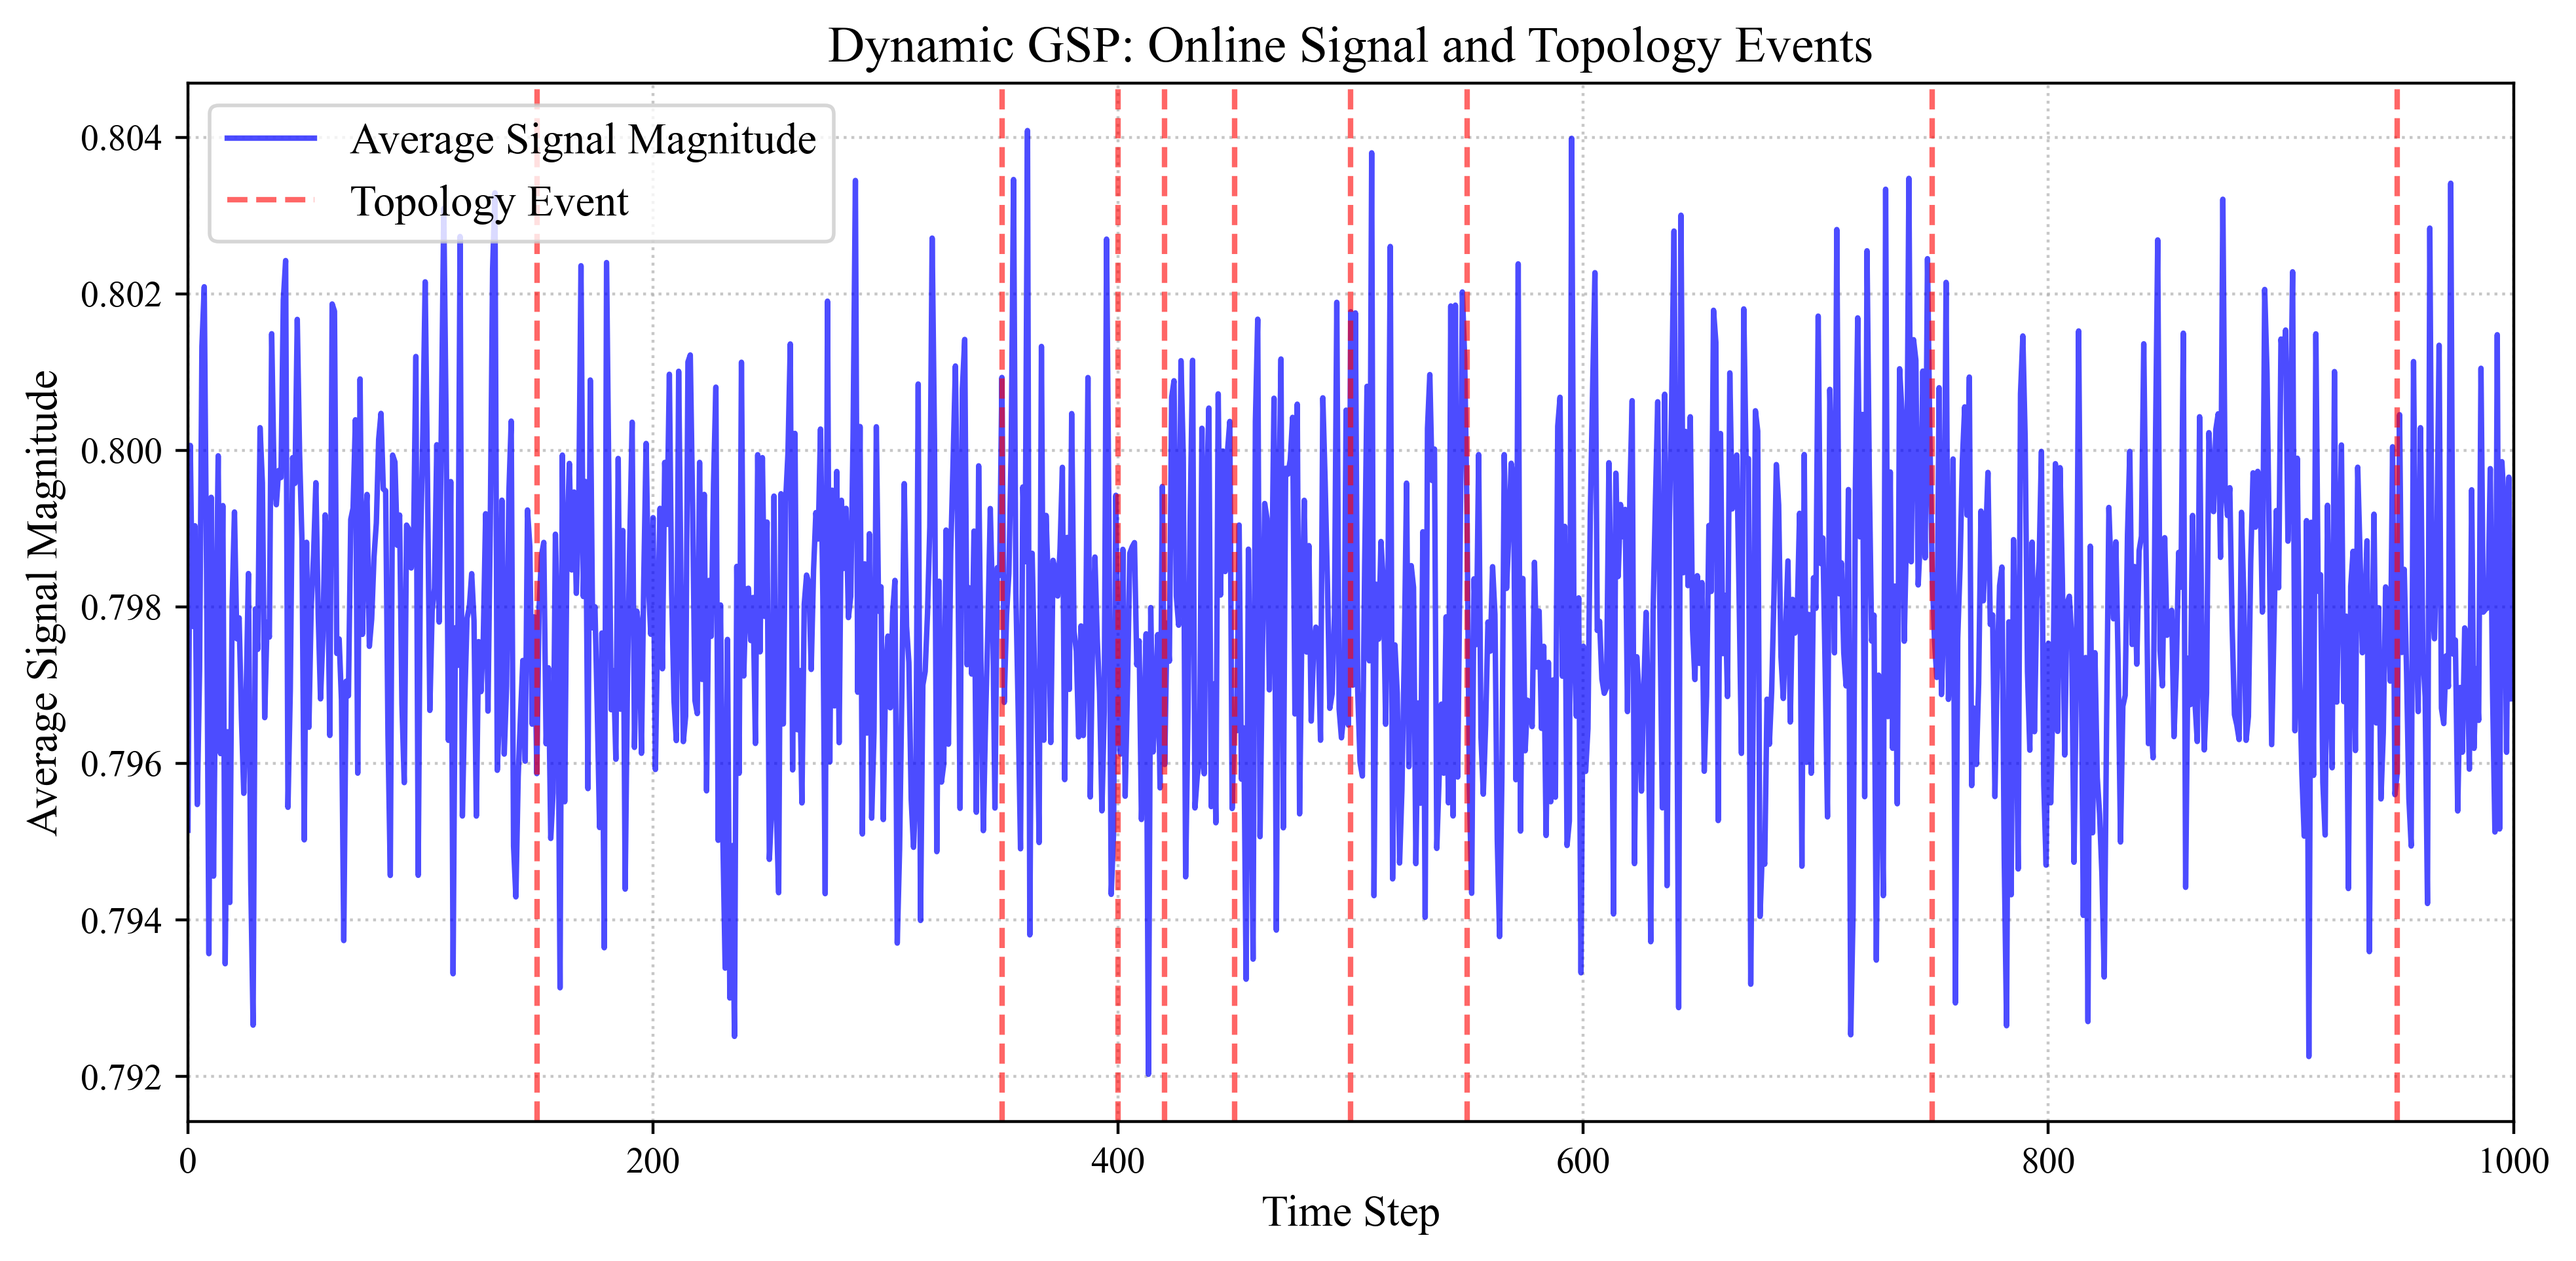
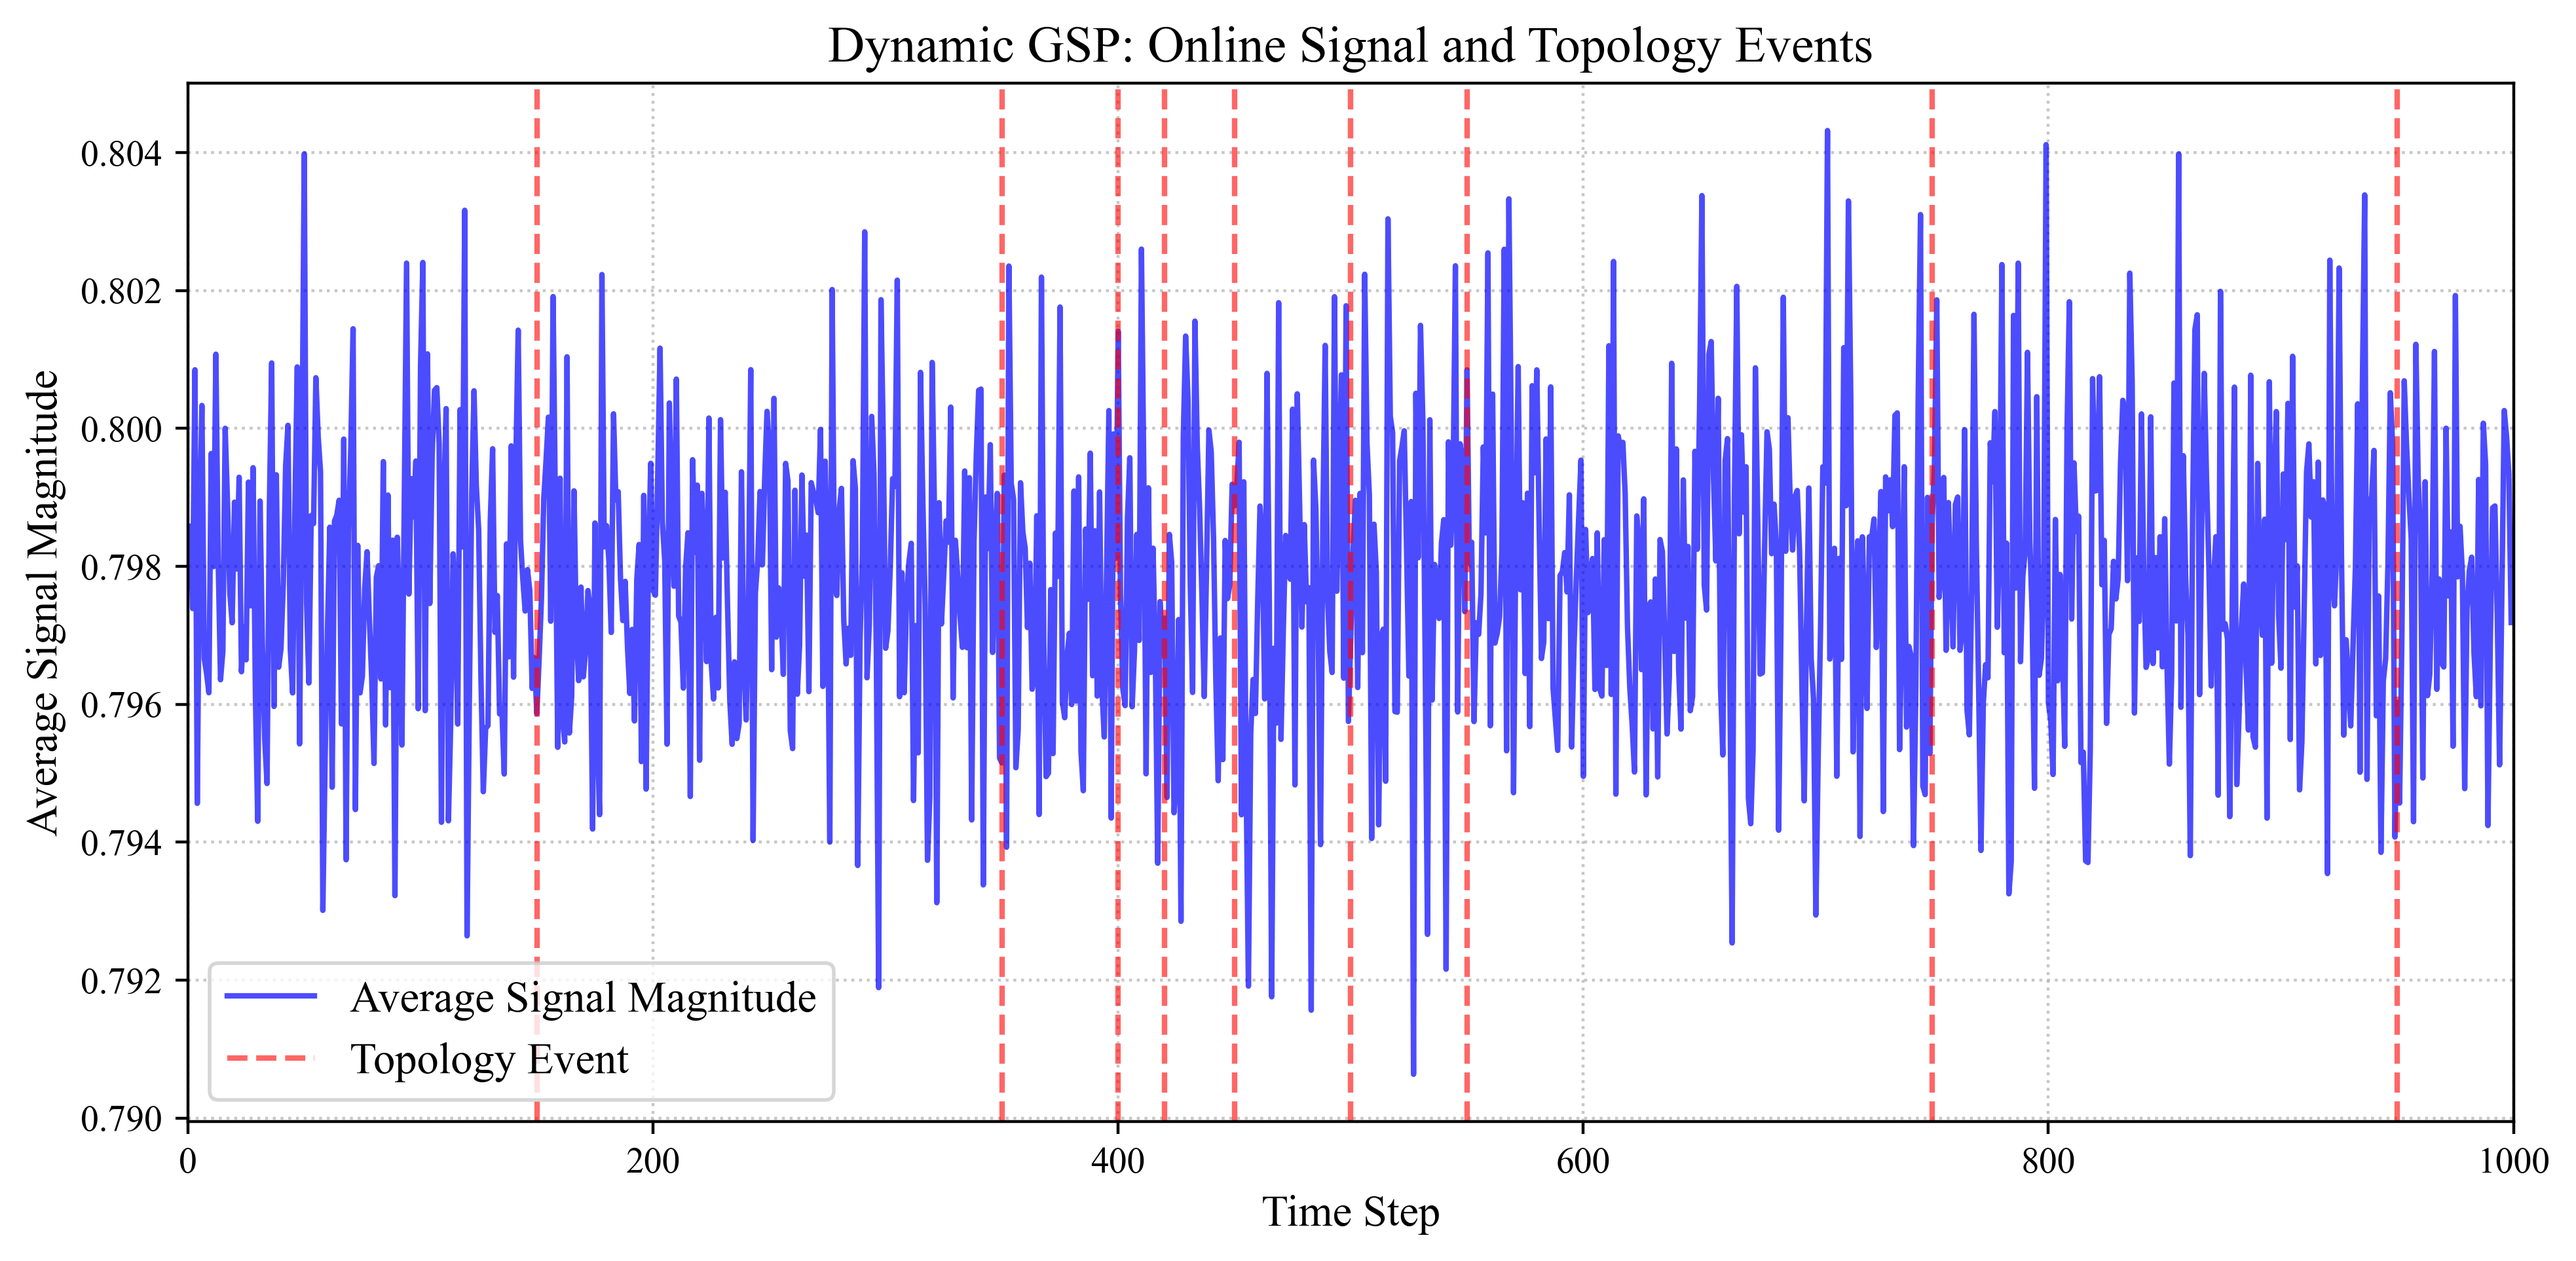
Final Changes to Examples

Changed region(s): [[0.031, 0.0623, 0.9926, 0.8723], [0.031, 0.8411, 0.062, 0.9034], [0.6824, 0.0935, 0.7135, 0.1246]]

diff --git a/examples/demo_dynamic_stream.py b/examples/demo_dynamic_stream.py
@@ -12,6 +12,9 @@ plt.rcParams['xtick.labelsize'] = 10
 plt.rcParams['ytick.labelsize'] = 10
 plt.rcParams['figure.titlesize'] = 16 # For suptitle if used
 
+# --- Configuration ---
+N_SAMPLES = 1000
+from sgwt import DELAY_USA as L
 
 # --- Helper Function for Stream Simulation ---
 
@@ -28,34 +31,30 @@ events_data = {
     950: (5000, 9000, 1.0)
 }
 first_event_time = next(iter(events_data.keys())) if events_data else None
-def get_incoming_data(t):
-    """Mock signal generator and network event simulator."""
-    n_nodes = L.shape[0]
-    # Generate random signal (Fortran order for CHOLMOD efficiency)
-    f_t = np.asfortranarray(np.random.randn(n_nodes, 1).astype(np.float64))
-    event = events_data.get(t)
-    
-    return f_t, event
+
+# Pre-generate the entire signal stream for reproducibility
+F = np.asfortranarray(np.random.randn(L.shape[0], N_SAMPLES).astype(np.float64))
+
+def get_incoming_data():
+    """Generator for mock signal and network events."""
+    for t in range(F.shape[1]):
+        # Yield a slice of the pre-generated signal
+        f_t = F[:, t:t+1]
+        # Get event for this time step
+        event = events_data.get(t)
+        yield t, f_t, event
 
 # DOC_START_CODE_EXCLUDE_IMPORTS
 from sgwt import DyConvolve
 from sgwt import DELAY_USA as L
 
-# --- Configuration ---
 scales = np.geomspace(0.1, 10.0, 10)
 poles  = 1.0 / scales
-N_SAMPLES = 1000
-
-print("SGWT Online Processor Emulation")
-print(f"Graph:  Synthetic USA ({L.shape[0]} nodes)")
-print(f"Stream: {N_SAMPLES} samples\n")
 
 avg_signal_magnitudes = []
 
 with DyConvolve(L, poles) as conv:
-    for t in range(N_SAMPLES):
-        f_t, event = get_incoming_data(t)
-
+    for t, f_t, event in get_incoming_data():
         if event:
             u, v, w = event
             conv.addbranch(*event)
@@ -66,7 +65,6 @@ with DyConvolve(L, poles) as conv:
         avg_signal_magnitudes.append(np.mean(np.abs(f_t))) # Record average signal magnitude
         
         if not event: print(f"[{t:04d}] STATUS | Stream processing active")
-
 # DOC_END_CODE_EXCLUDE_PLOT
 # Create a plot to visualize stream processing
 fig, ax = plt.subplots(figsize=(10, 5))

diff --git a/examples/demo_filters_3.py b/examples/demo_filters_3.py
@@ -10,7 +10,7 @@ from sgwt import COORD_USA as C
 X  = impulse(L, n=35000)
 
 # Scales
-s = [10]#[3e0]
+s = [10]
 
 # Memory Efficient Context
 with Convolve(L) as conv:

diff --git a/examples/demo_inpainting.py b/examples/demo_inpainting.py
@@ -1,5 +1,4 @@
 import os
-
 import matplotlib.pyplot as plt
 
 # DOC_START_CODE_EXCLUDE_IMPORTS
